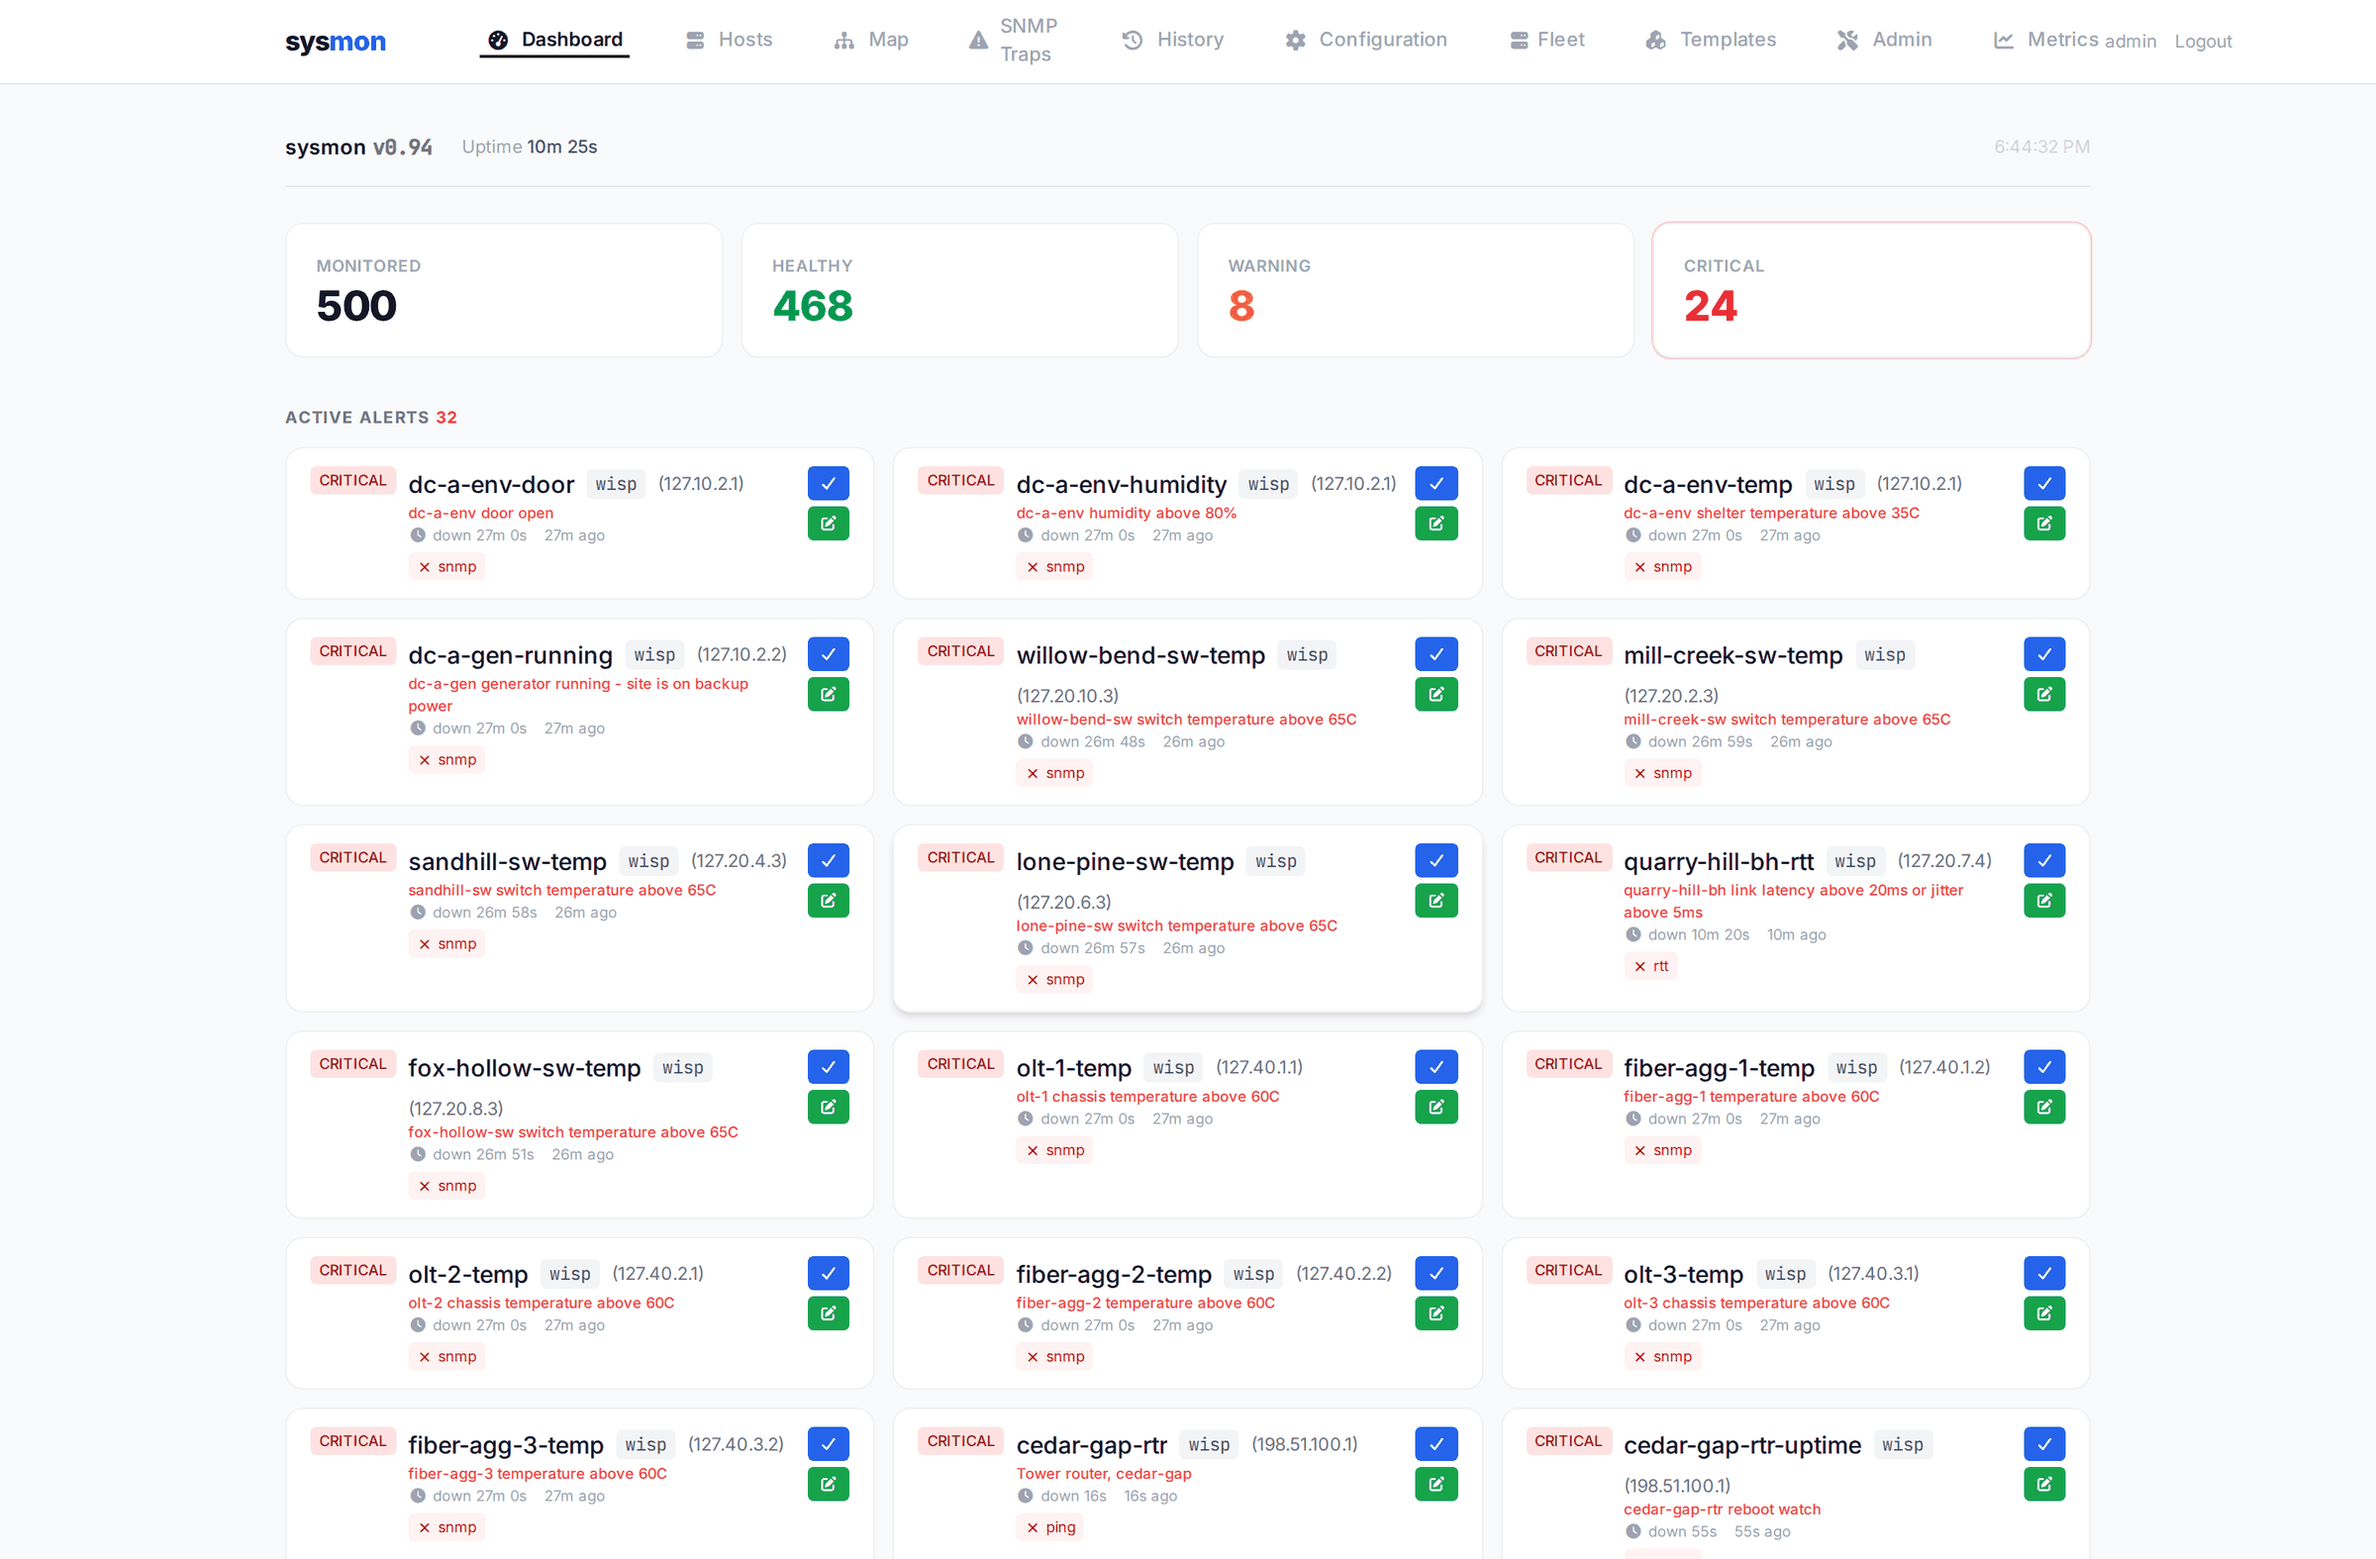
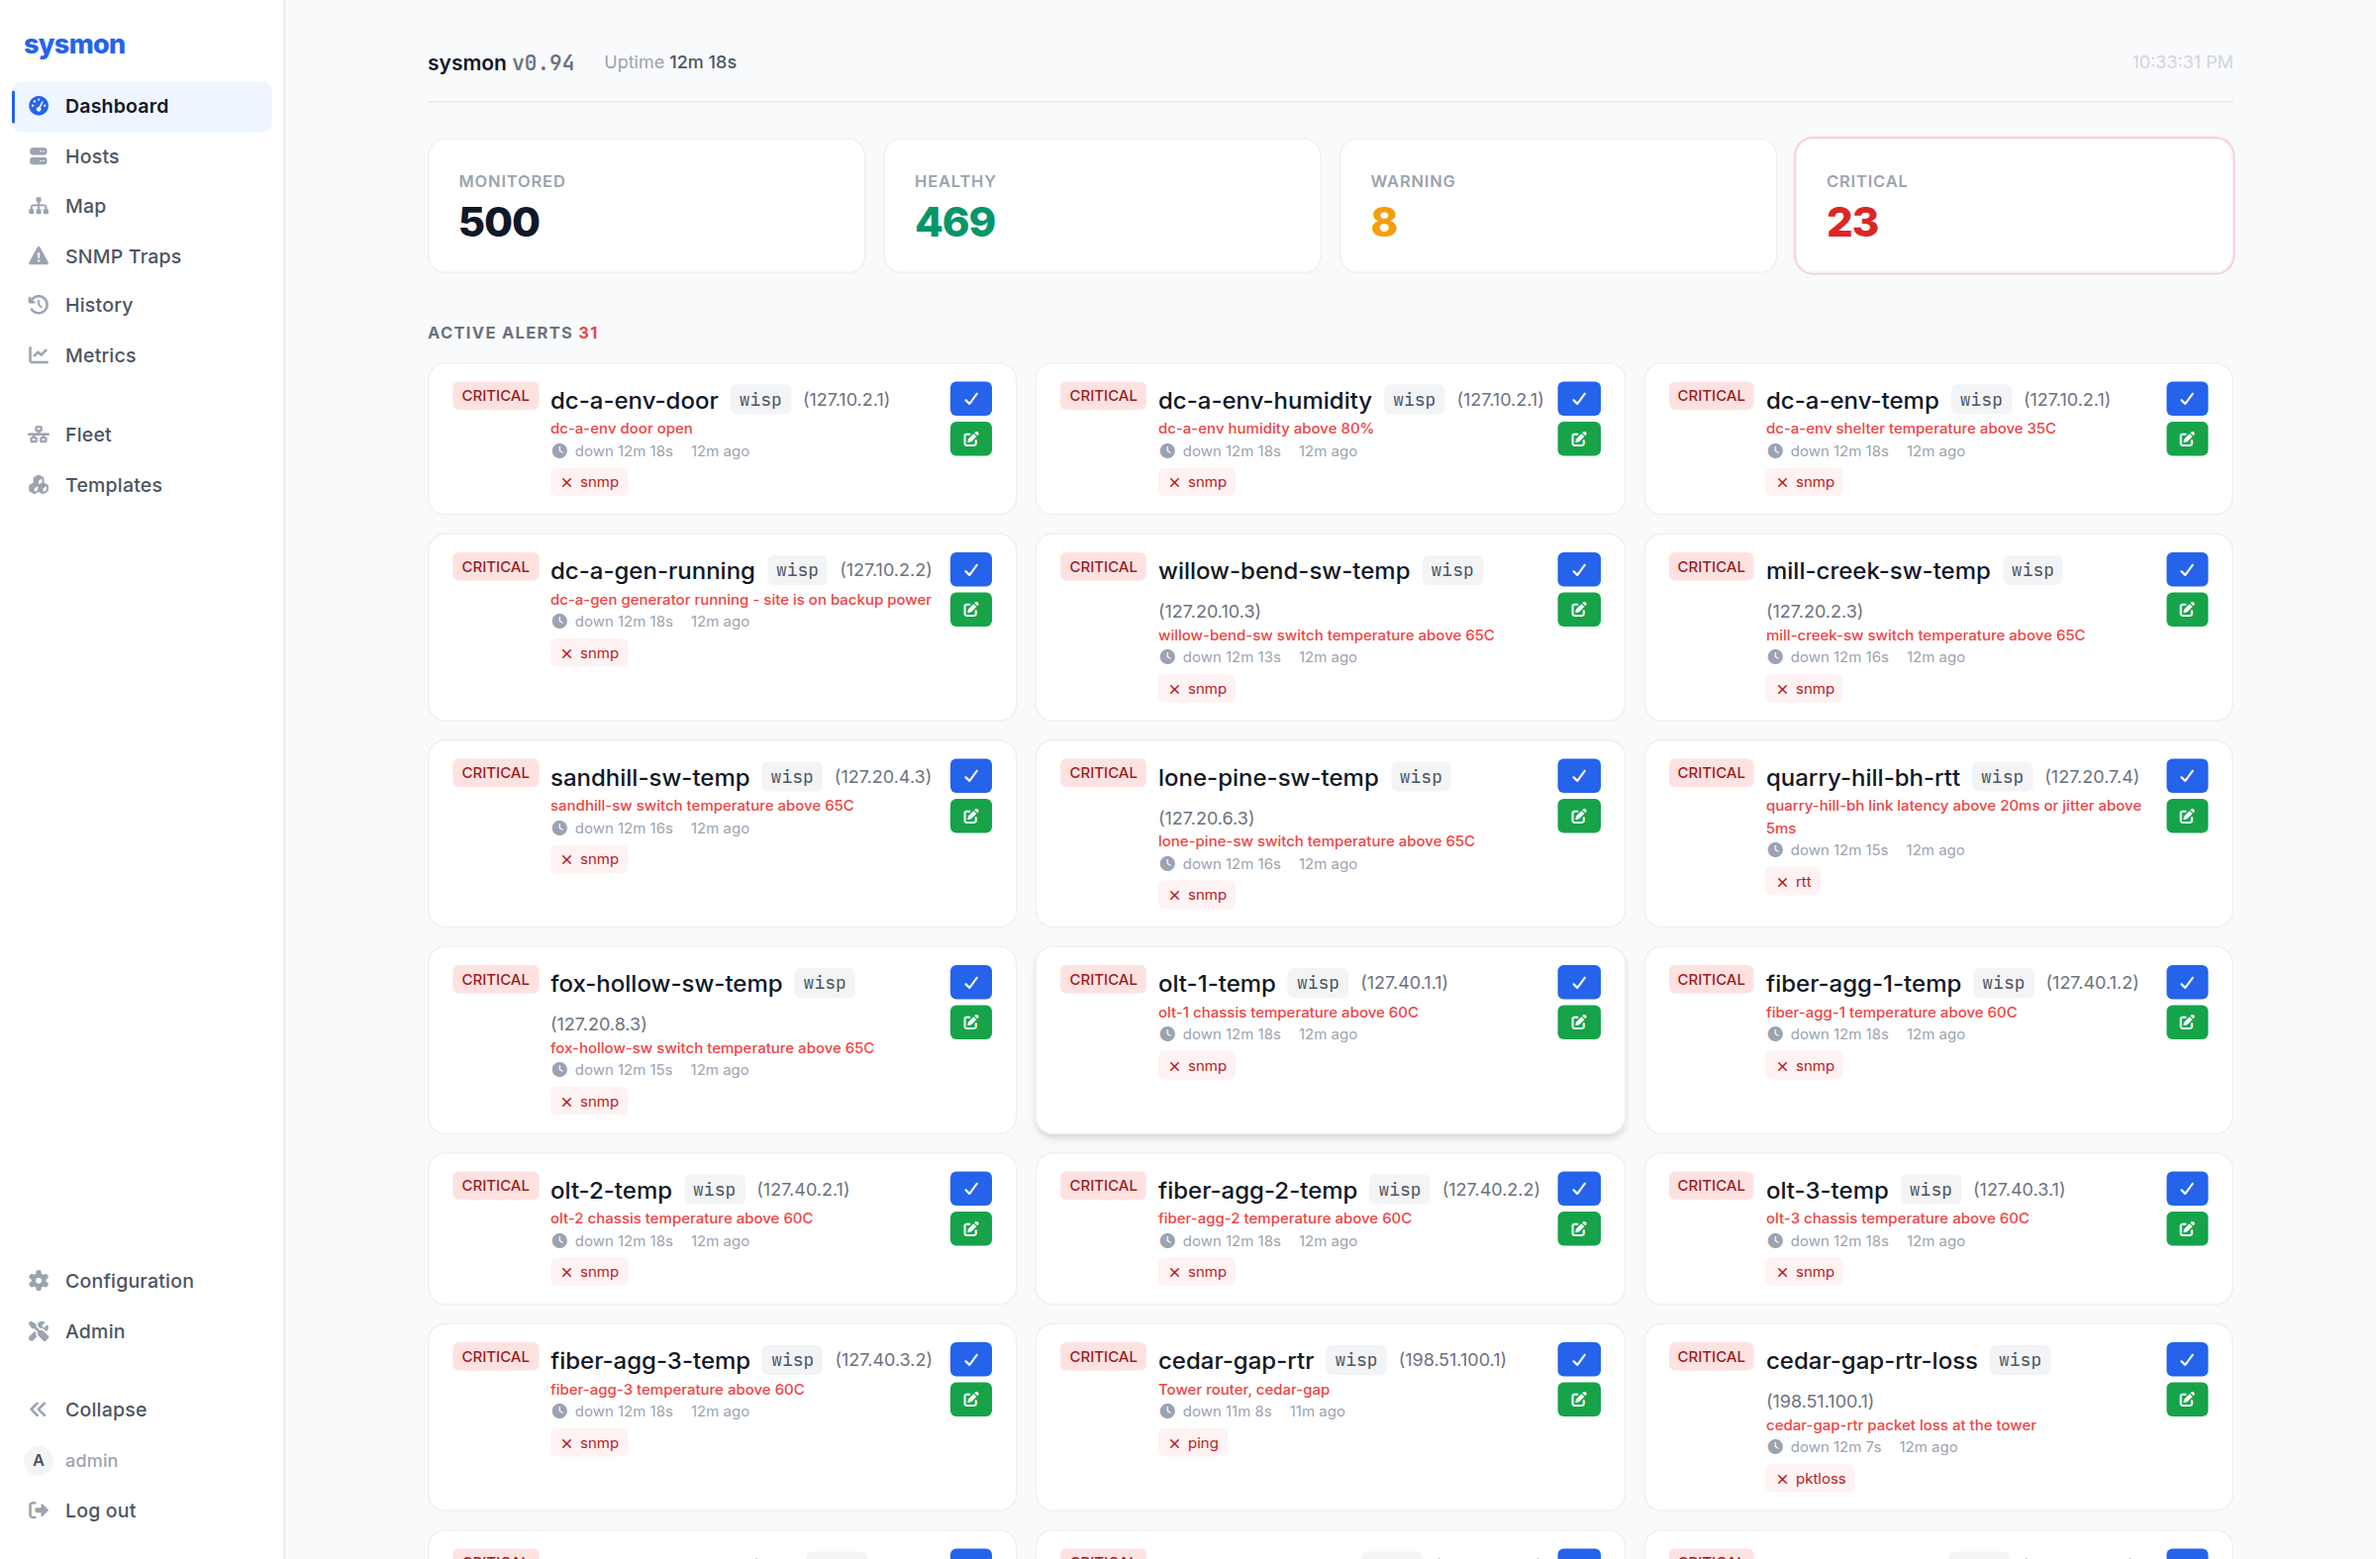
README: retake the screenshots with the new application rail
The web shots still showed the old top bar. All six are retaken from
one running system, as before:
- examples/sysmon.conf.fleet under sysmond, reporting to sysmon-web
  over the agent link, and adopted on first connection
- the pages driven in Chromium with real clicks, drags and wheel steps
- the same framing and 1.5x scale as the originals, taken twelve
  minutes into the run
sysmond's own status page is retaken from the same run, so "every
screenshot on this page is one running system" stays true.

What stands in for the network, since the fleet is on loopback:
- an SNMP agent answering the eight OIDs the fleet polls with healthy
  readings (37 days of uptime, 38C boards, 53-54V plants)
- an ICMP echo responder giving each role a realistic round trip, with
  the quarry-hill backhaul deliberately slow
- minimal DNS, HTTP, SMTP and SSH services for the core checks
The red is the fleet's own: the two towers on reserved ranges, the
slow backhaul, and the environmental checks whose templates poll
sysUpTime as a placeholder OID. The dashboard reads 500 / 469 / 8 / 23,
against 468 / 8 / 24 in the old shot.

The Hosts caption now quotes the photographed backhaul, 67ms against
its 20ms threshold. The PNGs are losslessly recompressed with optipng.

Claude-Session: https://claude.ai/code/session_01NpxQtrW7f2YaKiYL6evoTZ

diff --git a/README.md b/README.md
@@ -91,7 +91,7 @@ numbers, so the card carries them: mean round trip with its min-max
 range, RFC 3550 jitter, the loss ratio from the packet-loss check, and
 the device's own uptime from the SNMP reboot watch. Figures are coloured
 against the threshold *you* set for that object rather than a number
-picked here - the backhaul in red is at 64ms against the 20ms its
+picked here - the backhaul in red is at 67ms against the 20ms its
 template asked for.
 
 #### Dependency map
